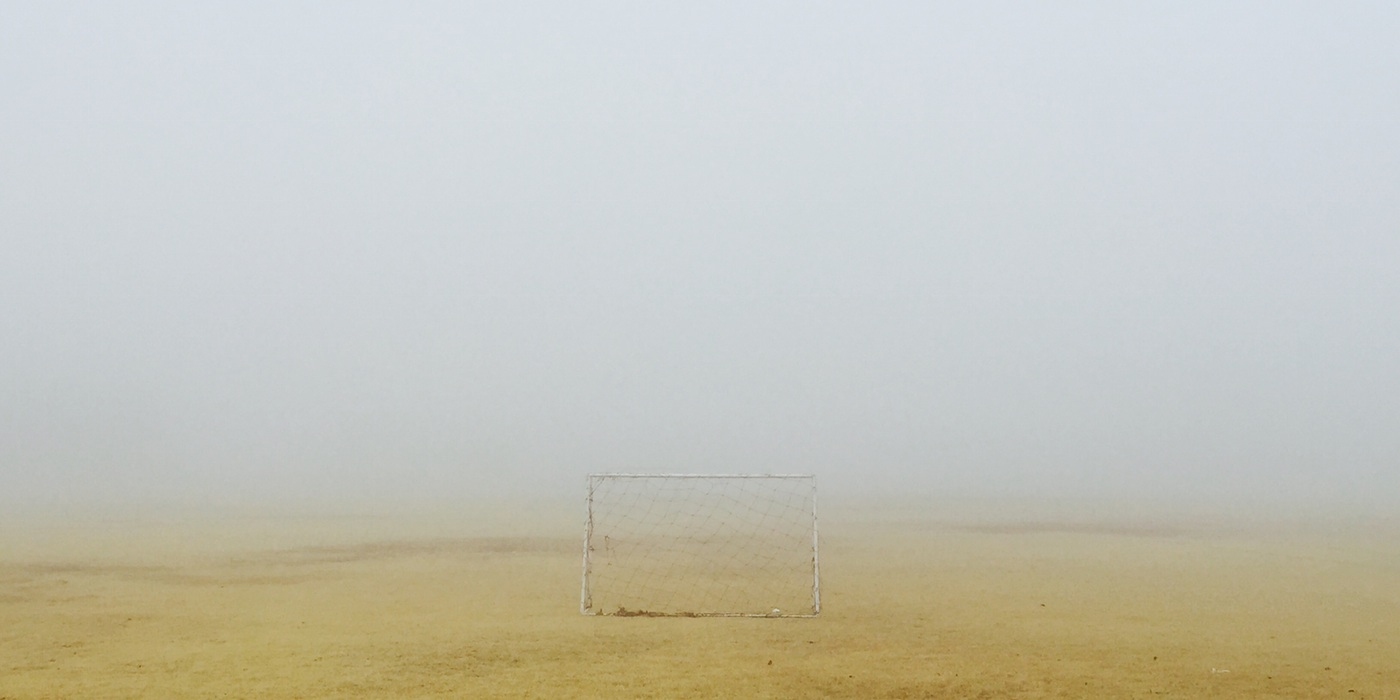
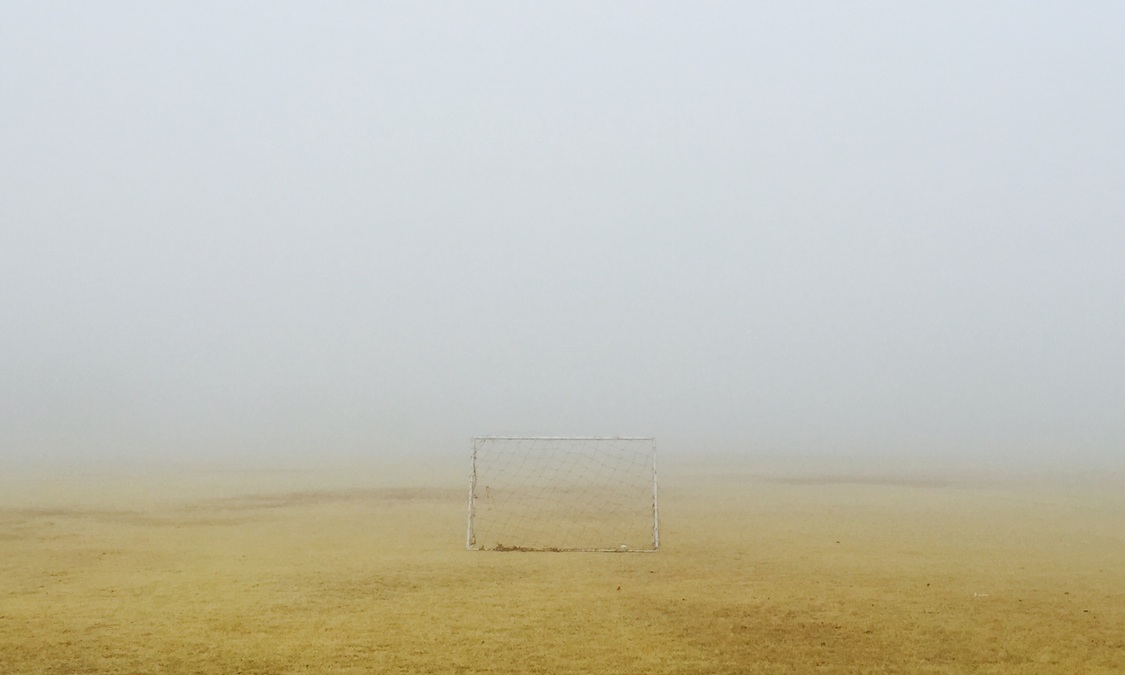
change picture background

Changed region(s): [[0.0, 0.6844, 1.0, 1.0], [0.9333, 0.7156, 0.9644, 0.7467], [0.9022, 0.9956, 0.9333, 1.0]]

diff --git a/app/assets/stylesheets/layout/_utilities.scss b/app/assets/stylesheets/layout/_utilities.scss
@@ -31,7 +31,10 @@
 }
 
 .bg-image {
-  background-image: image_url('backgroundpic.jpeg');
+  background: url(image_path('backgroundpic.jpeg')) no-repeat center center fixed;
+  background-size: cover;
+  position: relative;
+  min-height: 90vh;
 }
 
 .sign-class{

diff --git a/app/models/booking.rb b/app/models/booking.rb
@@ -4,7 +4,6 @@ class Booking < ActiveRecord::Base
   has_many :comments, dependent: :destroy
 
 
-
 # créer un model boolean, initializer à 0 , et quand dans la vue on change, on passe la valeur, et on la stocke"
 
 end
